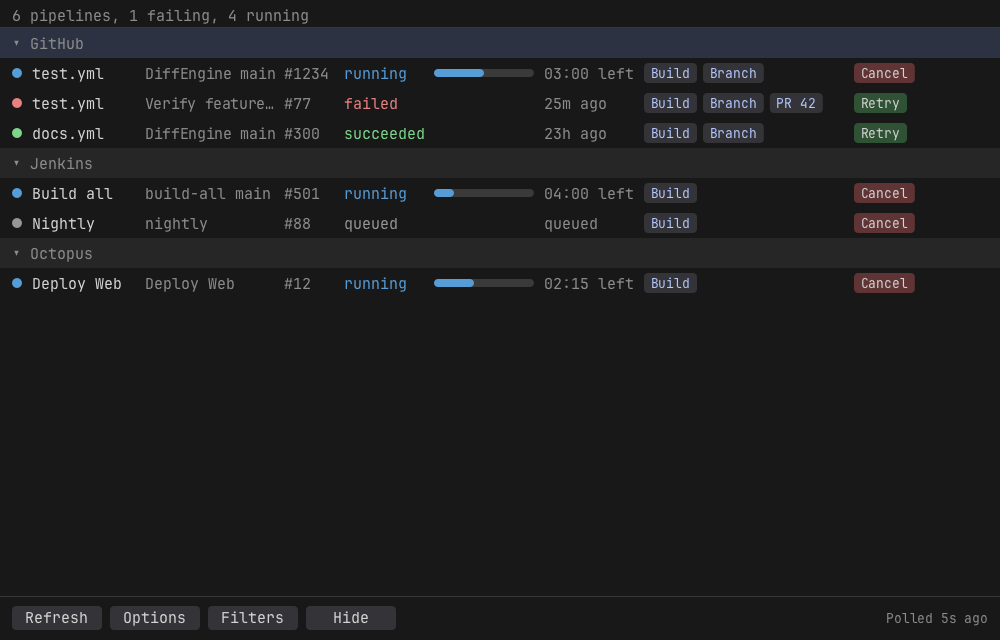
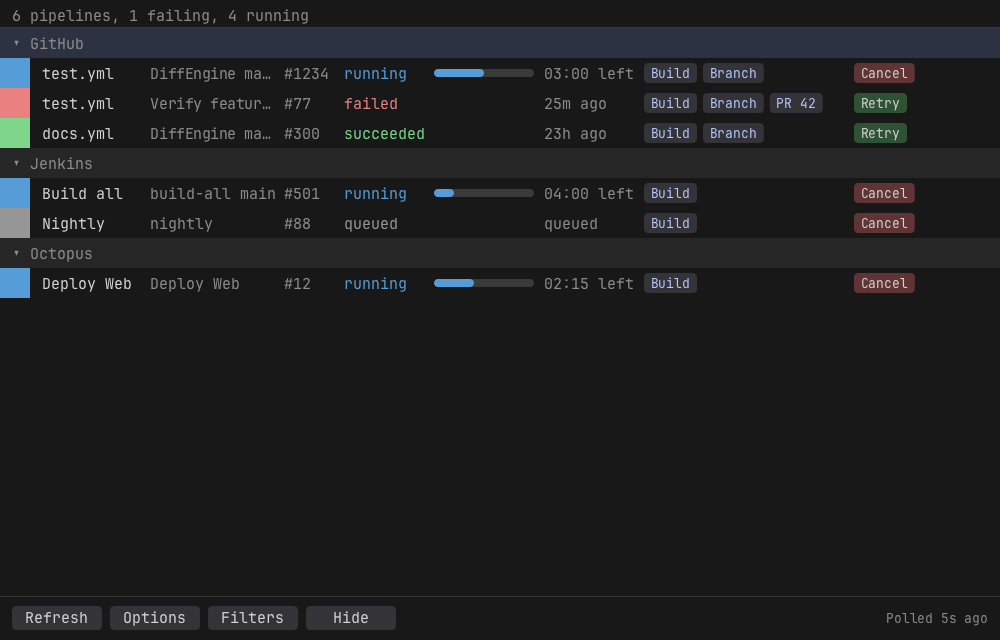
Settle native form layout in captures and scroll the macOS form
Linux captured a single ImGui frame, so a form's scrollbar followed the previous capture's content size. The macOS form had no scroll view, so fields past the body sat behind the footer; the static capture now clips to the body too. Accept the Builds baselines with the square status marker.

diff --git a/native/swift/Sources/Bm/MonitorView.swift b/native/swift/Sources/Bm/MonitorView.swift
@@ -9,14 +9,22 @@ final class MonitorView: NSView {
     var model: Frame?
     private weak var runtime: Runtime?
 
+    /// Holds the form, so a page with more fields than the body fits scrolls instead of hiding its
+    /// last controls behind the footer where they cannot be reached.
+    private let formScroll = NSScrollView()
+
     init(renderer: BuildsRenderer, runtime: Runtime, frame: NSRect) {
         self.renderer = renderer
         self.runtime = runtime
         form = FormView(runtime: runtime)
         super.init(frame: frame)
         wantsLayer = true
-        form.isHidden = true
-        addSubview(form)
+        formScroll.drawsBackground = false
+        formScroll.hasVerticalScroller = true
+        formScroll.autohidesScrollers = true
+        formScroll.documentView = form
+        formScroll.isHidden = true
+        addSubview(formScroll)
     }
 
     required init?(coder: NSCoder) {
@@ -37,10 +45,12 @@ final class MonitorView: NSView {
         }
 
         renderer.draw(model, in: context, size: bounds.size)
-        form.isHidden = !model.isForm
+        formScroll.isHidden = !model.isForm
         if model.isForm {
-            form.frame = renderer.bodyRect
+            formScroll.frame = renderer.bodyRect
             form.apply(model.fields)
+            let visible = formScroll.contentSize
+            form.frame.size = NSSize(width: visible.width, height: max(form.contentHeight, visible.height))
         }
     }
 

diff --git a/native/swift/Sources/Bm/FormView.swift b/native/swift/Sources/Bm/FormView.swift
@@ -10,6 +10,9 @@ final class FormView: NSView {
     private var controls: [NSView] = []
     private var editing: String?
 
+    /// The height the laid out controls need, so the enclosing scroll view can reach the last one.
+    private(set) var contentHeight: CGFloat = 0
+
     init(runtime: Runtime) {
         self.runtime = runtime
         super.init(frame: .zero)
@@ -65,6 +68,8 @@ final class FormView: NSView {
             controls.append(control)
             y += height + 6
         }
+
+        contentHeight = y + 6
     }
 
     private func make(_ field: Frame.Field, index: Int) -> NSView {

diff --git a/native/swift/Sources/Bm/BuildsRenderer.swift b/native/swift/Sources/Bm/BuildsRenderer.swift
@@ -75,7 +75,12 @@ final class BuildsRenderer {
         if !frame.isForm {
             drawRows(frame)
         } else if staticForm {
+            // Clipped to the body, so fields past the bottom are cut off the way the window's
+            // scroll view cuts them off, rather than drawn over the footer.
+            context.saveGState()
+            context.clip(to: bodyRect)
             drawForm(frame)
+            context.restoreGState()
         }
 
         drawFooter(frame, size: size)

diff --git a/native/src/bm.cpp b/native/src/bm.cpp
@@ -824,6 +824,10 @@ BM_API int32_t bm_capture(const BmScreen* screen, int32_t width, int32_t height,
     }
 
     UseTheme(screen->theme);
+    // ImGui sizes a child's scrollbar from the content size of the previous frame, so a single
+    // frame would draw a scrollbar the last capture needed and omit one this capture needs. The
+    // first frame settles the layout and is discarded.
+    Frame(*screen, width, height, false);
     BeginTextureMode(target);
     ClearBackground(ClearColour());
     Frame(*screen, width, height, false);
